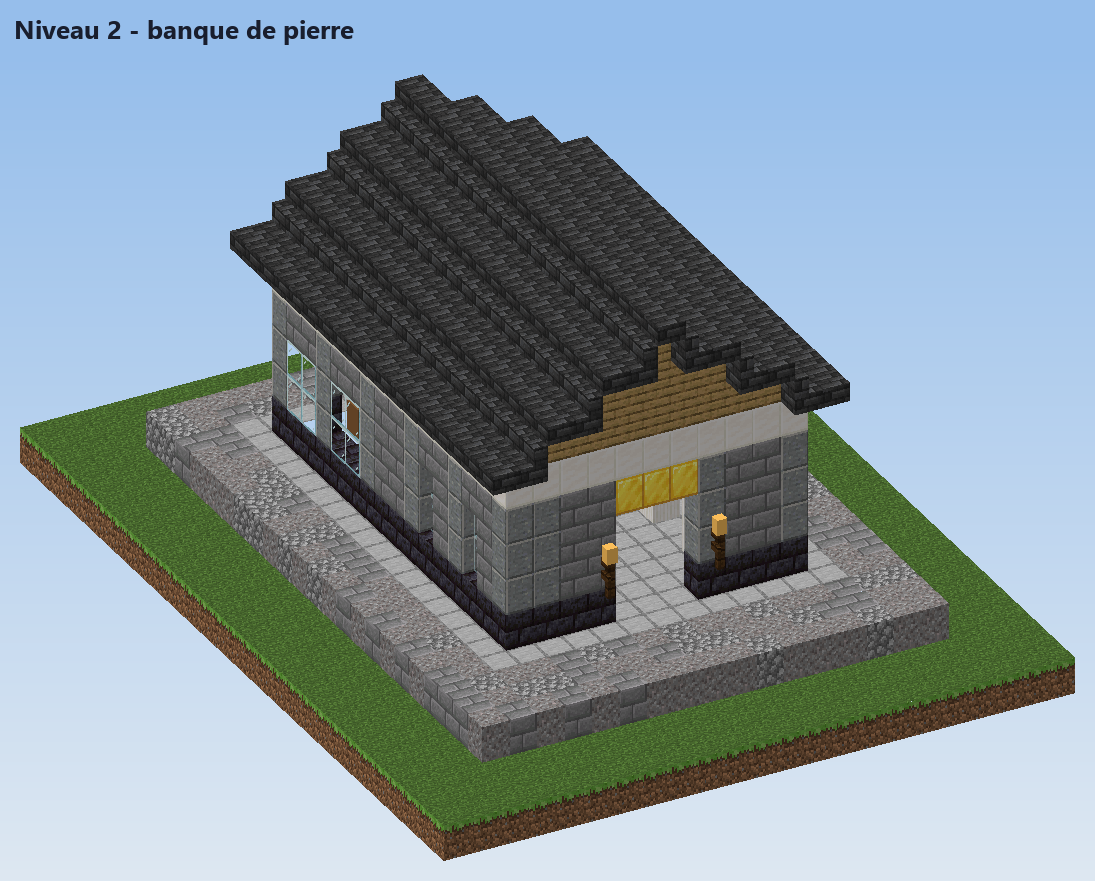
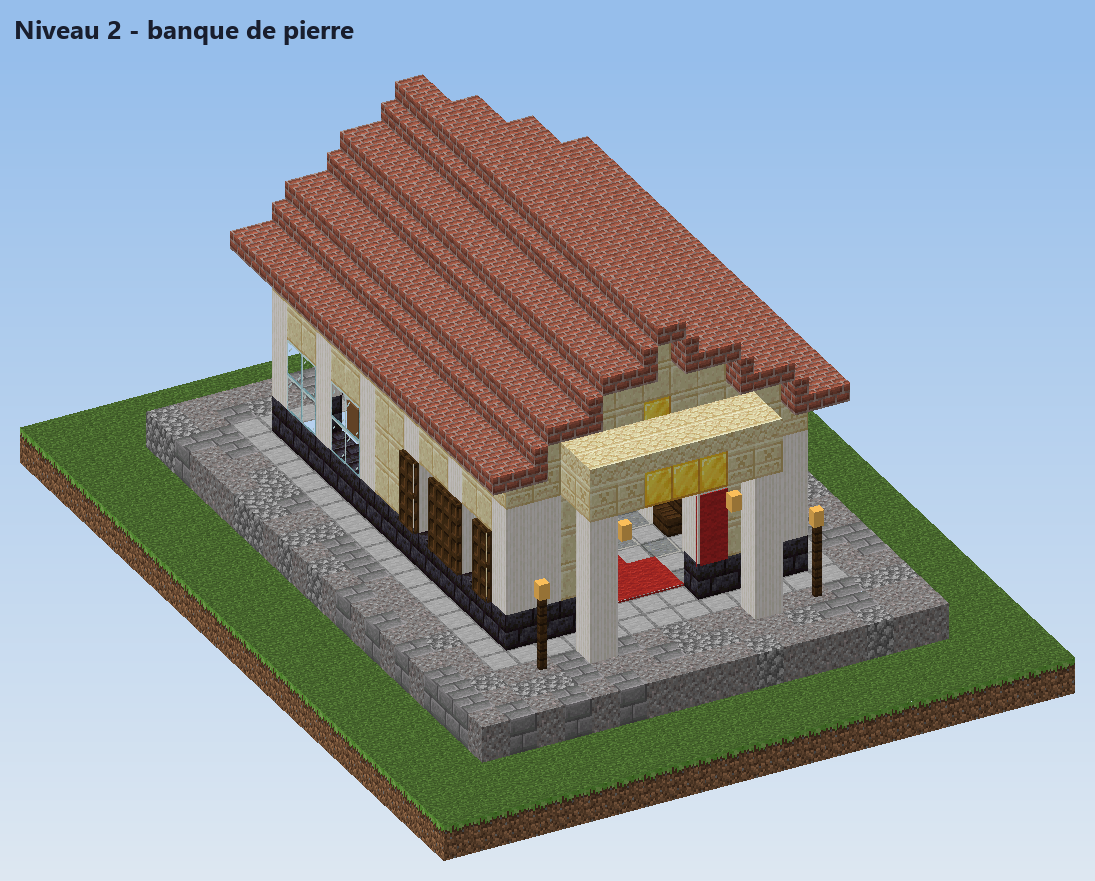
Banque régionale : refonte en palais de grès chaud, portique, hall à double hauteur et coffre accessible
Le bâtiment gris et froid devient un grès doré avec piliers de quartz, toit de tuiles rouges, hall en damier, tapis rouge jusqu'au coffre, lustres sur poutres, volets, bureaux latéraux au niveau 4 et fontaine d'or devant les niveaux 3 à 5. L'étage inaccessible est supprimé ; le générateur vérifie qu'on peut marcher de l'extérieur à la hutte et à la porte du coffre.

Changed region(s): [[0.1863, 0.0613, 0.7763, 0.7662]]

diff --git a/mod/tools/gen_bank_blueprints.py b/mod/tools/gen_bank_blueprints.py
@@ -44,7 +44,11 @@ FLOOR = M + 'smooth_stone'
 VAULT_FLOOR = M + 'polished_blackstone_bricks'
 GLASS = M + 'glass'
 VAULT_DOOR = M + 'waxed_copper_door'
-R.SOLID.update({STONE, POLISHED, POLISHED_B, QUARTZ, PILLAR, GOLD, DARK, VAULT_FLOOR, GLASS})
+SAND = M + 'cut_sandstone'
+CHISEL = M + 'chiseled_sandstone'
+POST = R.POST
+R.ROOF, R.ROOF_FULL, R.WALL = 'brick', M + 'bricks', SAND  # red tiles over warm sandstone, gable ends included
+R.SOLID.update({SAND, CHISEL}); R.SOLID.update({STONE, POLISHED, POLISHED_B, QUARTZ, PILLAR, GOLD, DARK, VAULT_FLOOR, GLASS})
 
 
 class BankGrid(R.Grid):
@@ -106,22 +110,25 @@ def bank(g, p):
     x0, x1 = -p['hw'], p['hw']
     z0, zd, z1 = -p['hd'], p['div'], p['div'] + p['vd'] + 1  # north wall, divider, south wall
     top = p['top']
+    # ground: a checkered banking hall, a dark vault floor, a polished forecourt
     g.fill(x0 - 1, x1 + 1, 0, 0, z0 - 1, z1 + 1, FLOOR)
+    for x in range(x0 + 1, x1):
+        for z in range(z0 + 1, zd):
+            g.put(x, 0, z, FLOOR if (x + z) % 2 else POLISHED)
     g.fill(x0, x1, 0, 0, zd, z1, VAULT_FLOOR)
-    # walls: stone, polished pillars, a quartz band under the roof
-    g.ring(x0, x1, z0, z1, 1, top, STONE)
+    # walls: warm cut sandstone, quartz pillars every third block, a dark plinth, a chiseled band under the roof
+    g.ring(x0, x1, z0, z1, 1, top, SAND)
     for x in range(x0, x1 + 1, 3):
         for z in (z0, z1):
-            g.fill(x, x, 1, top, z, z, POLISHED, )
+            g.fill(x, x, 1, top, z, z, PILLAR, axis='y')
     for z in range(z0, z1 + 1, 3):
         for x in (x0, x1):
-            g.fill(x, x, 1, top, z, z, POLISHED)
+            g.fill(x, x, 1, top, z, z, PILLAR, axis='y')
     for x, z in ((x0, z0), (x1, z0), (x0, z1), (x1, z1)):
-        g.fill(x, x, 1, top, z, z, POLISHED)
-    g.ring(x0, x1, z0, z1, top, top, QUARTZ)
+        g.fill(x, x, 1, top, z, z, PILLAR, axis='y')
+    g.ring(x0, x1, z0, z1, top, top, CHISEL)
     g.ring(x0, x1, z0, z1, 1, 1, POLISHED_B)
-    # the vault: a solid stone room. The street side (east) is an arcade of full glass blocks between the wall pillars, so the
-    # hoard shows from outside without any thin bars; the front wall has two glass teller windows and a copper door
+    # the vault: solid stone room, glass arcade on the street side (east) so the hoard shows from outside
     for z in range(zd + 1, z1):
         if z not in range(z0, z1 + 1, 3):
             for y in range(2, max(3, top - 1)):
@@ -137,29 +144,63 @@ def bank(g, p):
         g.fill(x, x, 1, top - 1, zd, zd, PILLAR, axis='y')
     g.carve(0, 0, 1, 3, zd, zd)
     g.vault_door(0, zd, 'north')
+    g.fill(-1, 1, 3, 3, zd, zd, GOLD)
     g.put(0, 3, zd, GOLD)
-    # windows of the hall
+    # tall windows of the hall, shuttered outside
     for z in range(z0 + 2, zd - 1, 3):
-        for x in (x0, x1):
-            g.carve(x, x, 2, 3, z, z)
-            g.pane(x, 2, z)
-            g.pane(x, 3, z)
-    # entrance, a gold plaque over it and two lamps
+        for x, out, face in ((x0, x0 - 1, 'west'), (x1, x1 + 1, 'east')):
+            g.carve(x, x, 2, top - 2, z, z)
+            for y in range(2, top - 1):
+                g.pane(x, y, z)
+            for dz in (-1, 1):
+                for y in (2, top - 2):
+                    g.trapdoor(out, y, z + dz, face, mat='dark_oak')
+    for x in range(x0 + 2, x1 - 1, 3):
+        if abs(x) > 1:
+            g.carve(x, x, 2, 3, z1, z1)
+    # entrance: a portico on quartz pillars, a gold plaque, banners and lamps
     g.carve(-1, 1, 1, 3, z0, z0)
-    if top >= 5:
-        g.fill(-1, 1, 4, 4, z0, z0, GOLD)
+    for x in (-3, 3):
+        g.fill(x, x, 1, top - 1, z0 - 2, z0 - 2, PILLAR, axis='y')
+    for x in range(-3, 4):
+        g.put(x, top, z0 - 2, CHISEL)
+        g.put(x, top, z0 - 1, CHISEL)
+        g.slab(x, top + 1, z0 - 2, 'sandstone')
+        g.slab(x, top + 1, z0 - 1, 'sandstone')
+    g.fill(-1, 1, top, top, z0 - 2, z0 - 2, GOLD)
     for x in (-2, 2):
-        g.lantern(x, 3, z0 - 1, hanging=False)
-        g.put(x, 2, z0 - 1, M + 'dark_oak_fence', north='false', south='false', east='false', west='false', waterlogged='false')
-    # the counter, with a glass teller screen and a gold edge
+        g.lantern(x, top - 1, z0 - 2, hanging=True)
+        g.banner(x, top - 2, z0 - 1, 'north', 'red')
+        g.banner(x, top - 3, z0 - 1, 'north', 'red')
+    for x in (-5, 5):
+        if x0 < x < x1 or p['hw'] >= 5:
+            g.lamp_post(x, z0 - 2, 2)
+    # the hall: red runner to the vault, teller counter with a glass screen, chandeliers on tie beams, benches
+    for z in range(z0 + 1, zd):
+        if (0, z) != (0, 0):
+            g.put(0, 1, z, M + 'red_carpet')
+    for x in (-1, 1):
+        for z in range(z0 + 1, z0 + 3):
+            g.put(x, 1, z, M + 'red_carpet')
     for x in range(x0 + 2, x1 - 1):
         if abs(x) > 1:
-            g.put(x, 1, zd - 2, M + 'dark_oak_planks')
+            g.put(x, 1, zd - 2, DARK)
             g.pane(x, 2, zd - 2)
     g.put(x1 - 1, 1, zd - 2, GOLD)
     g.put(x0 + 1, 1, zd - 2, GOLD)
+    for x in (-2, 2):
+        g.put(x, 2, zd - 2, M + 'lectern', facing='north')
     g.put(0, 1, 0, 'interregne:banque_regionale', facing='north')
+    for z in range(z0 + 2, zd - 2, 3):
+        g.fill(x0 + 1, x1 - 1, top - 1, top - 1, z, z, POST, axis='x')
+        for x in (-3, 3):
+            g.chain(x, top - 2, z)
+            g.lantern(x, top - 3, z, hanging=True)
+    for x in (x0 + 2, x1 - 2):
+        for z in range(z0 + 2, zd - 3, 2):
+            g.stair(x, 1, z, 'dark_oak', 'east' if x < 0 else 'west')
     g.gable('x', x0, x1, z0, z1, top + 1)
+    g.put(0, top + 1, z0, GOLD)  # the pediment's emblem
     if p.get('pillars'):
         for z in range(z0 + 2, zd - 1, 3):
             for x in (x0 + 2, x1 - 2):
@@ -167,37 +208,56 @@ def bank(g, p):
     if p.get('towers'):
         for x in (x0 - 1, x1 + 1):
             for z in (z0 - 1, z1 + 1):
-                g.fill(x - 1, x + 1, 1, top + 3, z - 1, z + 1, STONE)
+                g.fill(x - 1, x + 1, 1, top + 3, z - 1, z + 1, SAND)
+                g.fill(x - 1, x + 1, 1, 1, z - 1, z + 1, POLISHED_B)
+                g.fill(x - 1, x + 1, top + 3, top + 3, z - 1, z + 1, CHISEL)
                 for dx in (-1, 0, 1):
                     for dz in (-1, 0, 1):
-                        if (dx + dz) % 2 == 0:
+                        if (dx + dz) % 2 == 0 and (dx or dz):
                             g.put(x + dx, top + 4, z + dz, M + 'stone_brick_wall', north='none', south='none', east='none', west='none', up='true', waterlogged='false')
-                g.put(x, top + 4, z, M + 'lantern', hanging='false', waterlogged='false')
+                g.put(x, top + 4, z, GOLD)
+                g.lantern(x, top + 5, z)
     if p.get('wings'):
+        # two side offices, each opening into the hall through the side wall
         for sx in (-1, 1):
-            xa = sx * (p['hw'] + 1)
-            g.fill(min(xa, xa + sx * 3), max(xa, xa + sx * 3), 1, top - 1, z0 + 1, z0 + 5, STONE)
-            g.carve(min(xa, xa + sx * 3) + (1 if sx > 0 else 0), max(xa, xa + sx * 3) - (1 if sx < 0 else 0), 1, top - 2, z0 + 2, z0 + 4)
-    if p.get('upper'):
-        g.fill(x0 + 1, x1 - 1, top - 3, top - 3, z0 + 1, zd - 1, M + 'spruce_planks')
-        g.carve(-1, 1, top - 3, top - 3, z0 + 1, z0 + 3)
-        for z in range(z0 + 2, zd - 1, 3):
-            for x in (x0, x1):
-                g.carve(x, x, top - 2, top - 1, z, z)
-                g.pane(x, top - 2, z)
-                g.pane(x, top - 1, z)
-    g.lantern(0, top - 1, zd - 3, hanging=True)
+            a, b = sorted((sx * (p['hw'] + 1), sx * (p['hw'] + 5)))
+            g.ring(a, b, z0 + 1, z0 + 6, 1, top - 2, SAND)
+            g.fill(a, b, 0, 0, z0 + 1, z0 + 6, FLOOR)
+            g.fill(a, b, top - 1, top - 1, z0 + 1, z0 + 6, M + 'dark_oak_slab')
+            g.ring(a, b, z0 + 1, z0 + 6, 1, 1, POLISHED_B)
+            g.carve(sx * p['hw'], sx * p['hw'], 1, 2, z0 + 3, z0 + 4)
+            far = b if sx > 0 else a
+            g.put(far - sx, 1, z0 + 3, M + 'bookshelf')
+            g.put(far - sx, 2, z0 + 3, M + 'bookshelf')
+            g.put(far - sx, 1, z0 + 4, M + 'bookshelf')
+            g.put(far - sx, 2, z0 + 4, M + 'bookshelf')
+            g.put(far - 3 * sx, 1, z0 + 3, DARK)
+            g.put(far - 3 * sx, 2, z0 + 3, M + 'lectern', facing='west' if sx > 0 else 'east')
+            g.lantern(far - 3 * sx, 2, z0 + 4)
+    g.lantern(0, top - 3, zd - 3, hanging=True)
+    if p.get('fountain'):
+        for x in (-1, 0, 1):
+            for z in (z0 - 6, z0 - 5, z0 - 4):
+                g.put(x, 1, z, STONE)
+        g.water(0, 1, z0 - 5)
+        g.put(0, 2, z0 - 5, GOLD)
+        for x in (-3, 3):
+            g.lamp_post(x, z0 - 5, 2)
     vault_slots(g, x0 + 1, x1 - 1, zd + 1, z1 - 1, p['seed'], p.get('density', 1.0), p.get('pedestals', True))
-    R.apron(g, x0 - 3, x1 + 3, z0 - 4, z1 + 3)
+    R.apron(g, x0 - 3, x1 + 3, z0 - 7 if p.get('fountain') else z0 - 4, z1 + 3)
 
 
 PARAMS = {
     1: dict(hw=4, hd=4, div=3, vd=4, top=4, seed=11, density=0.55, pedestals=False),
     2: dict(hw=5, hd=5, div=4, vd=5, top=5, seed=22, density=0.6, pillars=True),
-    3: dict(hw=6, hd=6, div=5, vd=6, top=7, seed=33, density=0.6, pillars=True, upper=True),
-    4: dict(hw=7, hd=7, div=6, vd=7, top=7, seed=44, density=0.62, pillars=True, upper=True, wings=True),
-    5: dict(hw=8, hd=8, div=7, vd=8, top=8, seed=55, density=0.65, pillars=True, upper=True, towers=True),
+    3: dict(hw=6, hd=6, div=5, vd=6, top=7, seed=33, density=0.6, pillars=True, fountain=True),
+    4: dict(hw=7, hd=7, div=6, vd=7, top=7, seed=44, density=0.62, pillars=True, wings=True, fountain=True),
+    5: dict(hw=8, hd=8, div=7, vd=8, top=8, seed=55, density=0.65, pillars=True, towers=True, fountain=True),
 }
+
+
+def g_vault_z(n):
+    return PARAMS[n]['div'] + 1
 
 
 def level(n):
@@ -213,6 +273,7 @@ def build(level_n):
     g = BankGrid()
     LEVELS[level_n](g)
     R.connect(g)
+    R.assert_access(g, 'banque%d' % level_n, [(0, 1, g_vault_z(level_n))])
     xs, ys, zs = [k[0] for k in g.d], [k[1] for k in g.d], [k[2] for k in g.d]
     x0, x1, y0, y1, z0, z1 = min(xs), max(xs), min(ys), max(ys), min(zs), max(zs)
     sx, sy, sz = x1 - x0 + 1, y1 - y0 + 1, z1 - z0 + 1
